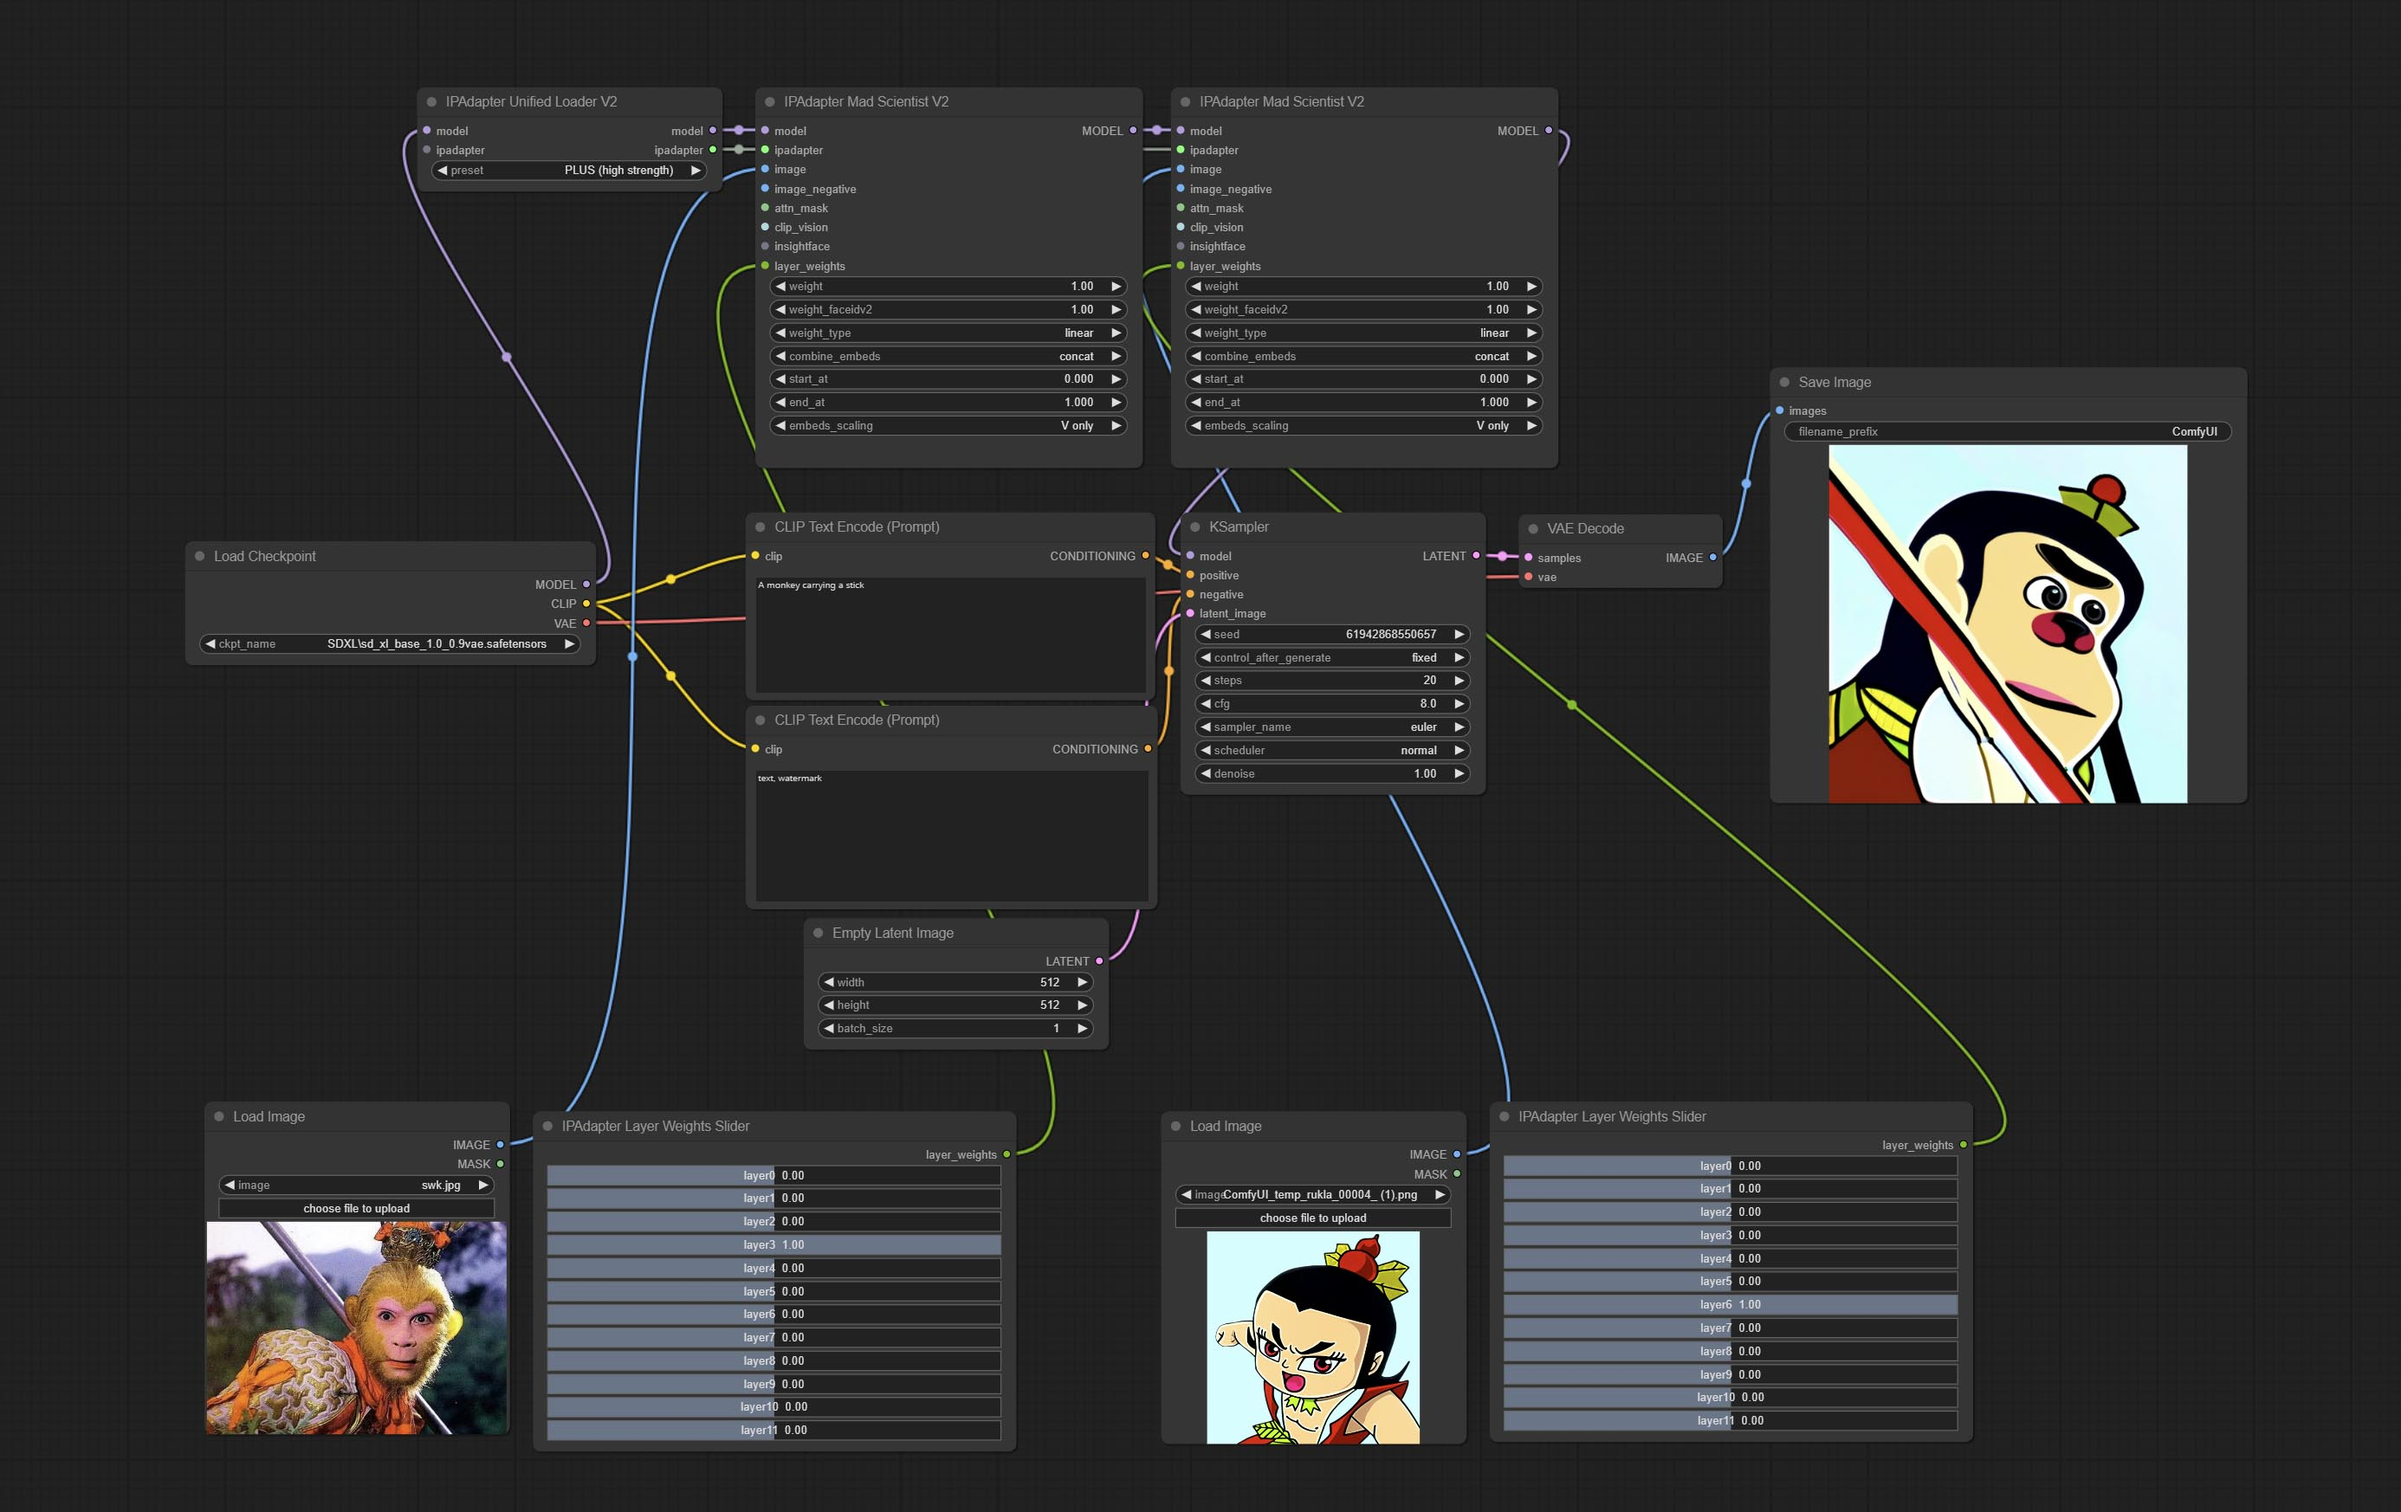
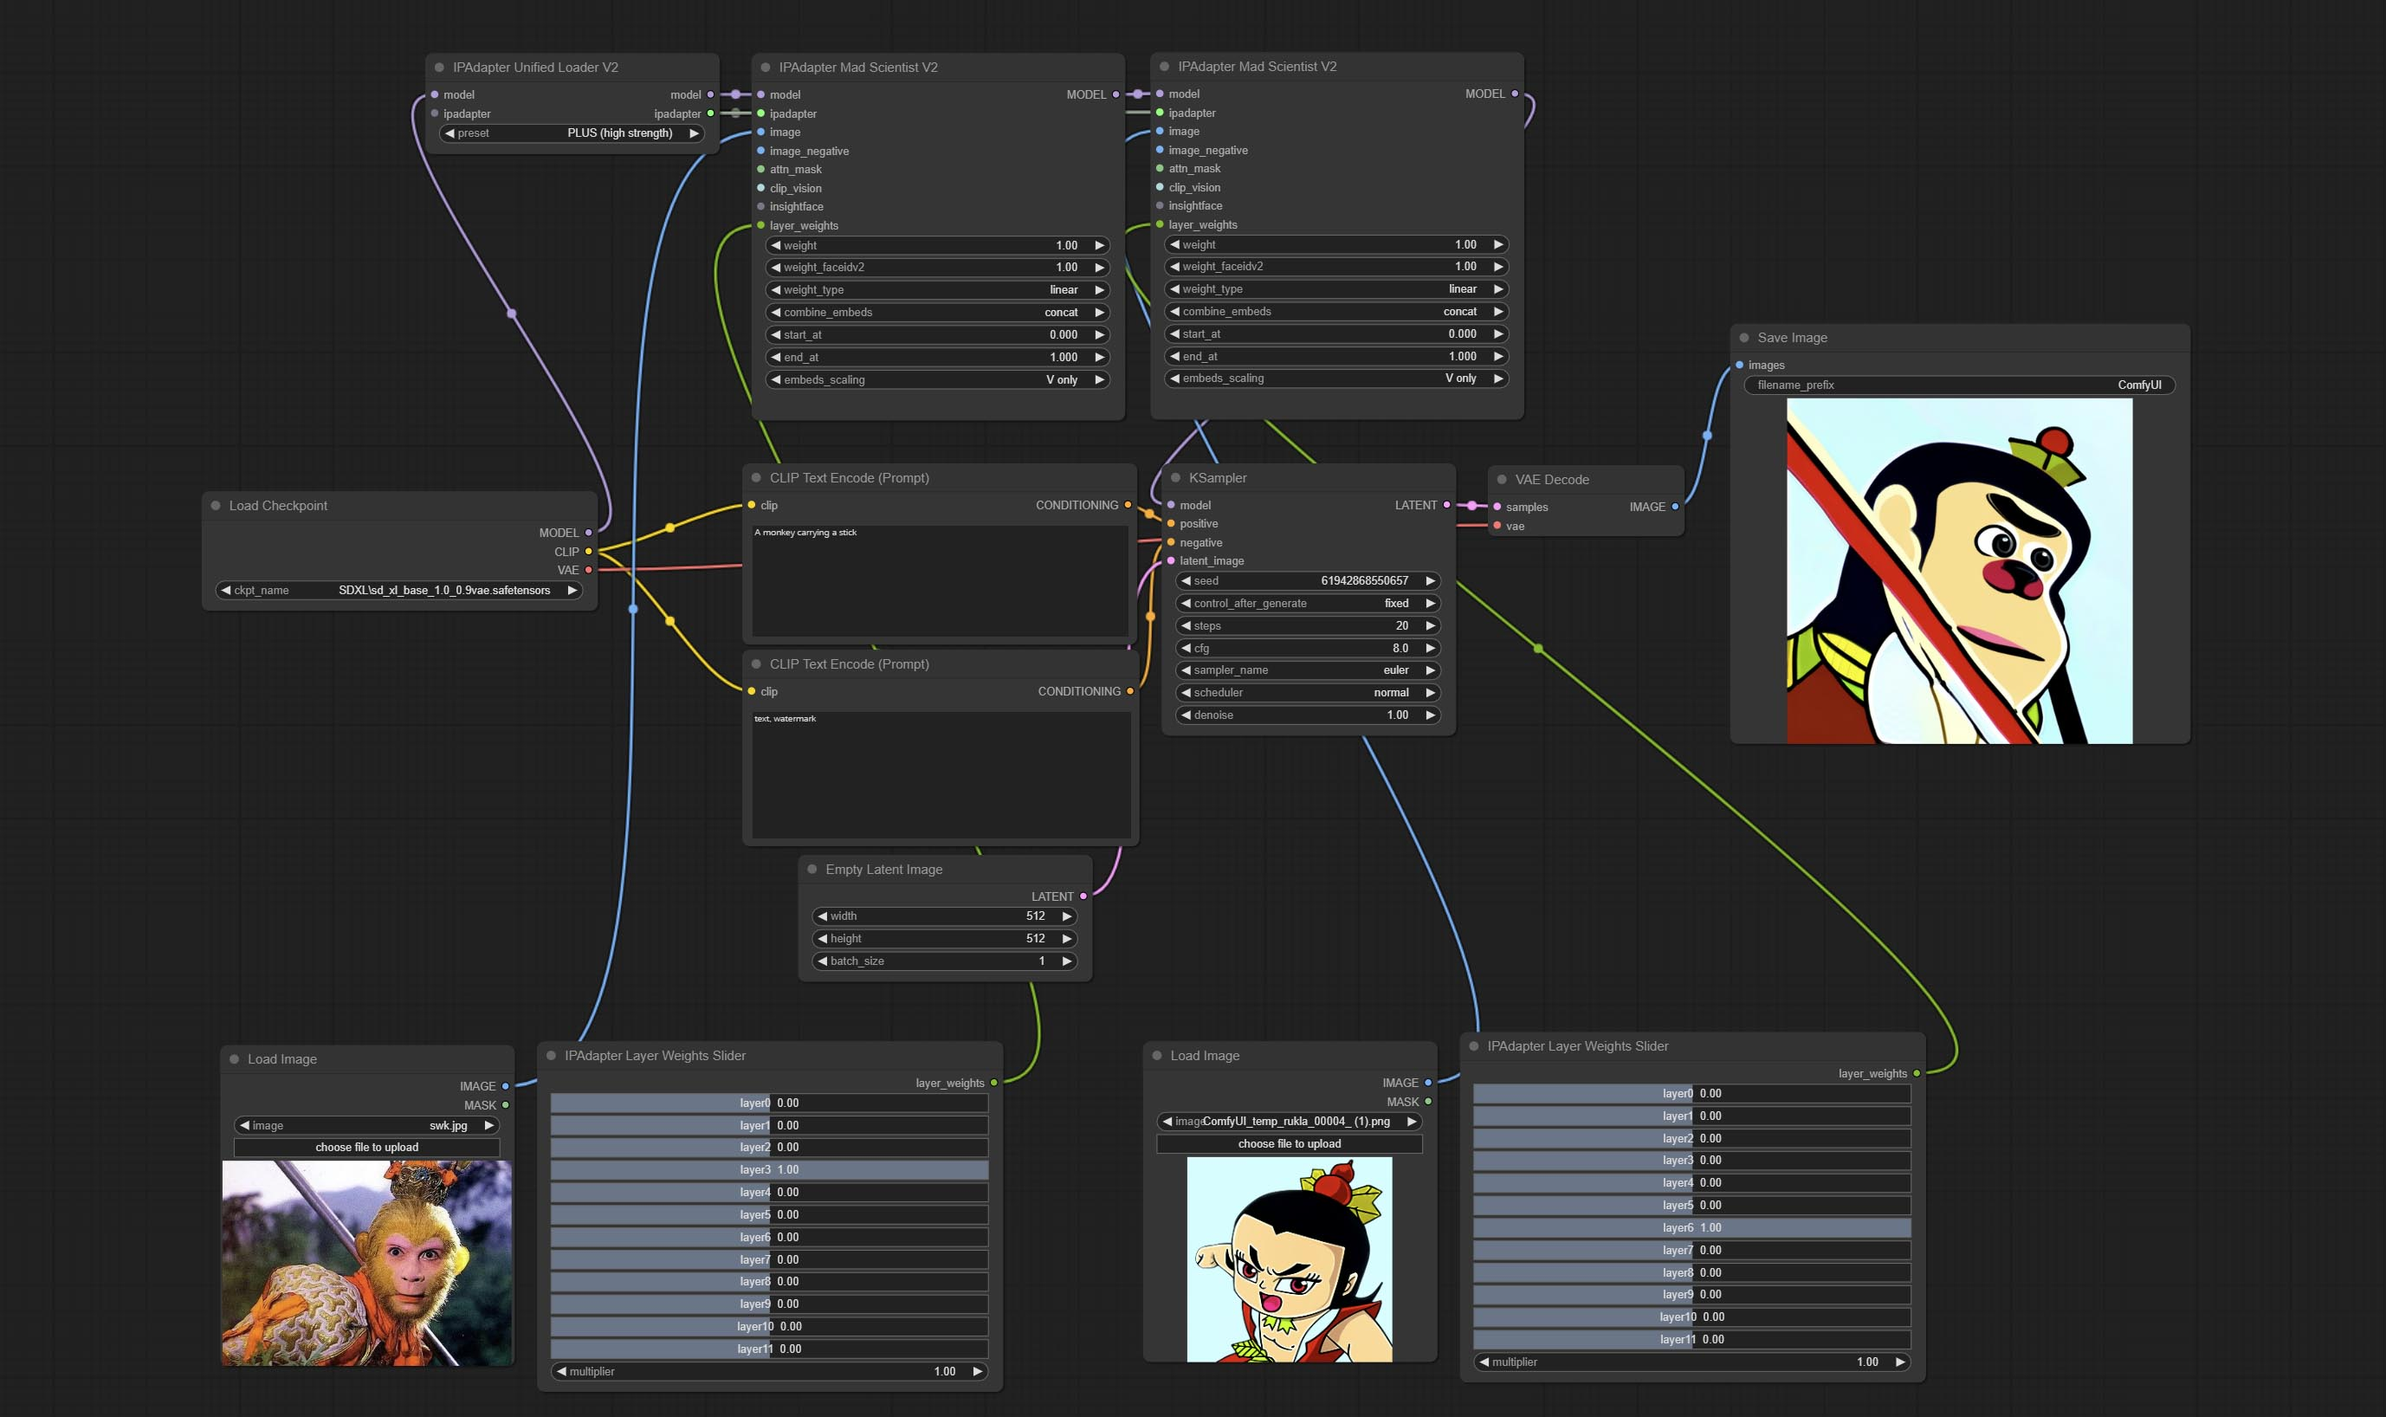
LayerWeightsSlider node add multiplier argument

diff --git a/layer_weights_slider.py b/layer_weights_slider.py
@@ -22,6 +22,7 @@ class IPA_LayerWeightsSlider:
                 "layer9": ("FLOAT", {"default": 0, "min": -1, "max": 1, "step": 0.01, "display": "slider"}),
                 "layer10": ("FLOAT", {"default": 0, "min": -1, "max": 1, "step": 0.01, "display": "slider"}),
                 "layer11": ("FLOAT", {"default": 0, "min": -1, "max": 1, "step": 0.01, "display": "slider"}),
+                "multiplier": ("FLOAT", {"default": 1, "min": 0, "max": 999, "step": 0.01}),
             },
             "optional": {
             }
@@ -32,8 +33,12 @@ class IPA_LayerWeightsSlider:
     FUNCTION = 'ipa_layer_weights_slider'
     CATEGORY = 'ipadapter/dev'
 
-    def ipa_layer_weights_slider(self, layer0, layer1, layer2, layer3, layer4, layer5, layer6, layer7, layer8, layer9, layer10, layer11):
-        ret_str = f"0:{layer0}, 1:{layer1}, 2:{layer2}, 3:{layer3}, 4:{layer4}, 5:{layer5}, 6:{layer6}, 7:{layer7}, 8:{layer8}, 9:{layer9}, 10:{layer10}, 11:{layer11}"
+    def ipa_layer_weights_slider(self, layer0, layer1, layer2, layer3, layer4, layer5, layer6,
+                                 layer7, layer8, layer9, layer10, layer11, multiplier):
+        ret_str = (f"0:{layer0 * multiplier}, 1:{layer1 * multiplier}, 2:{layer2 * multiplier}, "
+                   f"3:{layer3 * multiplier}, 4:{layer4 * multiplier}, 5:{layer5 * multiplier}, "
+                   f"6:{layer6 * multiplier}, 7:{layer7 * multiplier}, 8:{layer8 * multiplier}, "
+                   f"9:{layer9 * multiplier}, 10:{layer10 * multiplier}, 11:{layer11 * multiplier}")
 
         return (ret_str,)
 

diff --git a/README.md b/README.md
@@ -19,4 +19,4 @@ The copy of latest ComfyUI_IPAdapter_plus V1 version is saved on [GoogleDrive](h
   
 * Usage：    
 The weight slider adjustment range is -1 to 1.    
-If you want the weight to be greater than 1 or less than -1, please adjust the ```weight``` value of the IPAdapter Mad Scientist node. The final effective value is the multiplier between the slider value and the ```weight```.
+If you want to exceed this range, adjust the ```multiplier``` to multiply the output slider value with it.
